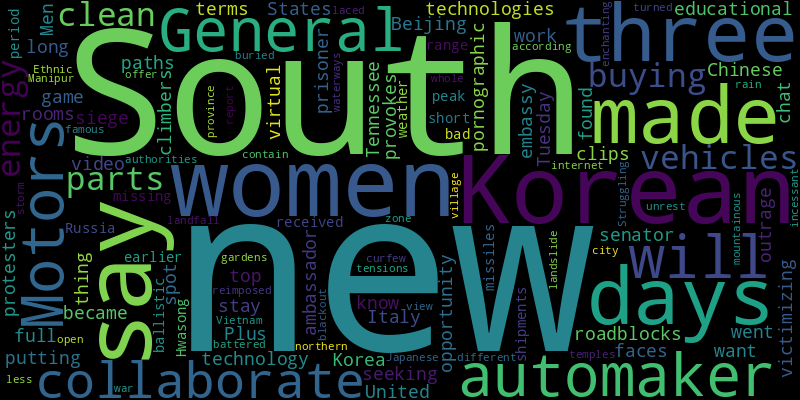
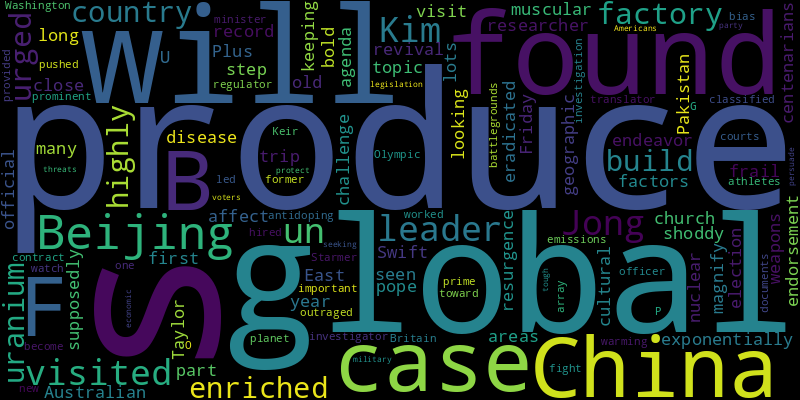
chore(bot): 😂 auto commit

diff --git a/README.md b/README.md
@@ -2,41 +2,41 @@
 Auto RSS New York Times and Generate Word Cloud
 
 ## New York Times Global News
+* The plan, championed by Mexico’s president, would have voters elect judges at every level, dramatically restructuring the third branch of government.
+* The topic will be on the agenda Friday with the first official visit to Washington by Britain’s new prime minister, Keir Starmer.
+* Israel said the former school had become a haven for militants and released a list of men it said were Hamas fighters targeted in the attack.
+* A forgery delayed the discovery of the theft of the photograph long enough for it to be sold at an auction in London.
+* A sweeping change would have thousands of judges, from local courtrooms all the way up to the Supreme Court, elected instead of appointed.
+* The aid workers lost their lives as they were preparing to distribute heating supplies in preparation for winter in the region of Donetsk.
+* If confirmed, the attack would be the first on a commercial vessel in open waters since the 2022 invasion, and a sharp escalation of hostilities in the Black Sea.
+* Bombardments are increasing in and around Pokrovsk in eastern Ukraine, with water supplies now cut, while Russian troops simultaneously press a new counterattack in the Kursk region.
 * UNRWA, the U.N. agency for Palestinian refugees, has survived 75 years of Israeli-Palestinian strife. Can it survive the latest conflict?
-* The United Nations said the vaccination effort was going well in challenging wartime conditions. Health officials said a second round of vaccinations would be needed within weeks.
-* President Biden has refused to allow Ukraine to use long-range Western missiles on Russian military targets, but he appears to be wavering.
-* Men in chat rooms have been victimizing women they know by putting their faces on pornographic clips. Some Korean women say the only thing new about it is the technology.
-* Even as a sweeping proposal to elect nearly 7,000 judges inches toward law, some Mexicans have protested it. Others welcomed the chance to vote in judges.
-* Prime Minister Robert Fico has purged prosecutors, cultural officials, journalists and others he believes fueled “hatred and aggression” against him.
-* While resuming its offensive against militants in the West Bank, Israel also kept up its bombardment of the Gaza Strip, striking a school building used as a shelter for displaced people.
-* The political arm of the Muslim Brotherhood won a sizable share of seats in Parliament, though not enough to challenge the government’s pro-Western tilt.
-* During his decade in power, he revived the economy and crushed two violent leftist insurgencies. But he was forced out in a corruption scandal and later imprisoned for human rights abuses.
-* Secretary of State Antony J. Blinken and his British counterpart, David Lammy, made a rare joint trip to Ukraine to show allied solidarity as the American presidential election looms.
+* The sanctions against 16 government officials appointed by the authoritarian president of Venezuela were seen as unlikely to be effective by observers and analysts.
 
 ![Global](./global.png)
 ## New York Times United States News
-* Three fires in Southern California exploded in size overnight, and the authorities arrested a man suspected of starting one of them. Large blazes continued to burn in Oregon and Idaho.
-* Nathan Clark says the candidates are exploiting his son’s death in a crash caused by an immigrant outside the small city of Springfield. “This needs to stop now.”
-* During the debate, the former president used the phrase “execute the baby” to attack Kamala Harris for her support of abortion rights.
-* Federal prosecutors began their case against three former Memphis police officers with an explosive accusation, while defense lawyers said that the officers had acted in line with their training.
-* In California, the fires have displaced tens of thousands of people, charred more than 100,000 acres and strained the state’s resources.
-* Her campaign is riding high, but still sees the race as an exceedingly close grind. Her aides have new hopes of focusing the race squarely on Donald Trump’s fitness for office.
-* Ahead of a new school year, colleges across the country have adopted a wave of new rules around protest and speech.
-* The man, Andrew J. Gallo, 40, of Bristol Township, Pa., a Philadelphia suburb, is accused of raping or sexually assaulting six women he met on dating sites.
-* Cairo will receive its full military aid allotment of $1.3 billion after the secretary of state also said it had made progress on releasing political prisoners and protecting Americans.
-* The Homeland Security Department approved adding federal, state and local resources to help protect the counting of Electoral College votes on Jan. 6, 2025.
+* Polish Americans are an important, if politically overlooked, demographic. But in Pennsylvania, many have tended to lean Republican.
+* A judge ruled that the State Constitution protected a woman’s right to abortion until the fetus was viable. The state’s attorney general said he would appeal.
+* Florida’s governor has come under fire from critics who say he is using state resources to work against a proposed abortion-rights amendment to the state Constitution.
+* While the judge kept most of the case intact, it was a win for the defendants, who have been trying to chip away at the case.
+* Officials said a battalion chief was retreating from an evacuated area when he spotted her. The woman is being treated at a burn center.
+* The violent episode resulted in an emergency landing. The man now faces federal flight interference charges.
+* The former president’s decision to elevate Laura Loomer, a far-right activist known for racist and homophobic posts online, has stunned even some Trump allies.
+* Speaking at an event in Tucson, Ariz., former President Donald J. Trump called for eliminating taxes on overtime pay as he declared Tuesday’s debate a “monumental victory” for him.
+* A report by the federal border agency on the school shooting in 2022 found that its agents lacked adequate training and authority to respond to active shooter situations.
+* As campaigns shift from persuading voters to turning them out, mail voting is in the spotlight.
 
 ![US](./usnews.png)
 ## New York Times Asia News
-* General Motors and the South Korean automaker say they will collaborate on new vehicles, buying parts and clean energy technologies.
-* Men in chat rooms have been victimizing women they know by putting their faces on pornographic clips. Some Korean women say the only thing new about it is the technology.
-* For Chinese seeking educational opportunity, the United States has long been the top spot, but as more want to stay to work, their paths are full of roadblocks.
-* He became ambassador after three terms as a senator from Tennessee. In 1999, he was made a virtual prisoner in the embassy in Beijing during a siege by protesters.
-* Plus, a video game provokes outrage.
-* The climbers from Italy and South Korea were found on Tuesday after they went missing three days earlier during a period of bad weather on the peak.
-* Russia has received new shipments of Hwasong-11 short-range ballistic missiles, according to a new report.
-* Ethnic tensions have turned Manipur into an open war zone. Struggling to contain the unrest, the authorities have reimposed a curfew and internet blackout.
-* The Japanese city is famous for its temples and gardens, but it is laced with waterways that can offer a different, and no less enchanting, view.
-* Days after the storm made landfall, northern Vietnam was being battered by incessant rain. A landslide buried a whole village in a mountainous province.
+* Its leader, Kim Jong-un, visited the factory and urged his country to produce more highly enriched uranium to build “exponentially” more nuclear weapons.
+* An Australian researcher found that many areas that supposedly produce lots of centenarians also produce shoddy record-keeping.
+* The long trip by a frail, 87-year-old pope was seen as a bold endeavor and a muscular step for a global church looking East.
+* The resurgence is part of a global revival of a disease once close to being eradicated, but geographic and cultural factors magnify Pakistan’s challenge.
+* Plus, will Taylor Swift’s endorsement affect the U.S. election?
+* The topic will be on the agenda Friday with the first official visit to Washington by Britain’s new prime minister, Keir Starmer.
+* An investigator hired by the global antidoping regulator found no bias toward China in a case that has outraged Olympic athletes and led to an F.B.I. investigation.
+* The courts have become one of the most important battlegrounds in the fight over planet-warming emissions. Here are prominent cases to watch.
+* The former officer, who also worked as a contract translator for the F.B.I., provided classified documents to Beijing.
+* The G.O.P. pushed through an array of legislation to get tough on China, seeking to persuade voters that they are the party that will protect Americans from economic and military threats from Beijing.
 
 ![Asian](./asian.png)

diff --git a/archive/2024-09-12.md b/archive/2024-09-12.md
@@ -1,0 +1,42 @@
+# NewsArchive
+Auto RSS New York Times and Generate Word Cloud
+
+## New York Times Global News
+* UNRWA, the U.N. agency for Palestinian refugees, has survived 75 years of Israeli-Palestinian strife. Can it survive the latest conflict?
+* The United Nations said the vaccination effort was going well in challenging wartime conditions. Health officials said a second round of vaccinations would be needed within weeks.
+* President Biden has refused to allow Ukraine to use long-range Western missiles on Russian military targets, but he appears to be wavering.
+* Men in chat rooms have been victimizing women they know by putting their faces on pornographic clips. Some Korean women say the only thing new about it is the technology.
+* Even as a sweeping proposal to elect nearly 7,000 judges inches toward law, some Mexicans have protested it. Others welcomed the chance to vote in judges.
+* Prime Minister Robert Fico has purged prosecutors, cultural officials, journalists and others he believes fueled “hatred and aggression” against him.
+* While resuming its offensive against militants in the West Bank, Israel also kept up its bombardment of the Gaza Strip, striking a school building used as a shelter for displaced people.
+* The political arm of the Muslim Brotherhood won a sizable share of seats in Parliament, though not enough to challenge the government’s pro-Western tilt.
+* During his decade in power, he revived the economy and crushed two violent leftist insurgencies. But he was forced out in a corruption scandal and later imprisoned for human rights abuses.
+* Secretary of State Antony J. Blinken and his British counterpart, David Lammy, made a rare joint trip to Ukraine to show allied solidarity as the American presidential election looms.
+
+![Global](./global.png)
+## New York Times United States News
+* Three fires in Southern California exploded in size overnight, and the authorities arrested a man suspected of starting one of them. Large blazes continued to burn in Oregon and Idaho.
+* Nathan Clark says the candidates are exploiting his son’s death in a crash caused by an immigrant outside the small city of Springfield. “This needs to stop now.”
+* During the debate, the former president used the phrase “execute the baby” to attack Kamala Harris for her support of abortion rights.
+* Federal prosecutors began their case against three former Memphis police officers with an explosive accusation, while defense lawyers said that the officers had acted in line with their training.
+* In California, the fires have displaced tens of thousands of people, charred more than 100,000 acres and strained the state’s resources.
+* Her campaign is riding high, but still sees the race as an exceedingly close grind. Her aides have new hopes of focusing the race squarely on Donald Trump’s fitness for office.
+* Ahead of a new school year, colleges across the country have adopted a wave of new rules around protest and speech.
+* The man, Andrew J. Gallo, 40, of Bristol Township, Pa., a Philadelphia suburb, is accused of raping or sexually assaulting six women he met on dating sites.
+* Cairo will receive its full military aid allotment of $1.3 billion after the secretary of state also said it had made progress on releasing political prisoners and protecting Americans.
+* The Homeland Security Department approved adding federal, state and local resources to help protect the counting of Electoral College votes on Jan. 6, 2025.
+
+![US](./usnews.png)
+## New York Times Asia News
+* General Motors and the South Korean automaker say they will collaborate on new vehicles, buying parts and clean energy technologies.
+* Men in chat rooms have been victimizing women they know by putting their faces on pornographic clips. Some Korean women say the only thing new about it is the technology.
+* For Chinese seeking educational opportunity, the United States has long been the top spot, but as more want to stay to work, their paths are full of roadblocks.
+* He became ambassador after three terms as a senator from Tennessee. In 1999, he was made a virtual prisoner in the embassy in Beijing during a siege by protesters.
+* Plus, a video game provokes outrage.
+* The climbers from Italy and South Korea were found on Tuesday after they went missing three days earlier during a period of bad weather on the peak.
+* Russia has received new shipments of Hwasong-11 short-range ballistic missiles, according to a new report.
+* Ethnic tensions have turned Manipur into an open war zone. Struggling to contain the unrest, the authorities have reimposed a curfew and internet blackout.
+* The Japanese city is famous for its temples and gardens, but it is laced with waterways that can offer a different, and no less enchanting, view.
+* Days after the storm made landfall, northern Vietnam was being battered by incessant rain. A landslide buried a whole village in a mountainous province.
+
+![Asian](./asian.png)
